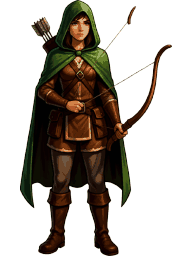
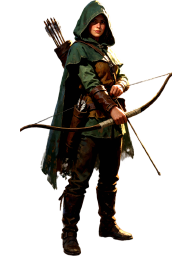
world2 v9.57.0: 캐릭터 그림을 KREA2 체인 + BiRefNet-HR 로
tools/make_character_sheet.py 추가 — ComfyUI 워크플로우를 API 형식으로 옮겨
얼굴·상반신·전신 세 장을 한 번에 뽑는다. 얼굴=카드, 상반신=인스펙터,
전신=전투. 사람과 크리처 모두 이 스크립트만 쓴다. 궁수를 먼저 뽑았다.

diff --git a/game-card-world2/tools/make_character_sheet.py b/game-card-world2/tools/make_character_sheet.py
@@ -1,0 +1,258 @@
+"""캐릭터 시트 생성 — KREA2 체인 + BiRefNet-HR 배경제거 (2026-10-06)
+
+ComfyUI 워크플로우 `KREA2 체인 + BiRefNet-HR 배경제거.json` 을 그대로 API 형식으로 옮긴 것.
+**사람과 크리처는 이제 전부 이 스크립트로 뽑는다** (make_icon_character.py 는 쓰지 않는다).
+
+한 번 돌리면 세 장이 나오고, 셋 다 게임의 제 자리로 들어간다.
+  얼굴   → images/icon/card_<id>.png        64x64 · 32색   (카드)
+  상반신 → images/portrait/bust_<id>.png    192x256        (인스펙터)
+  전신   → images/portrait/portrait_<id>.png 192x256       (전투 · 줄 토큰)
+
+체인 (모델은 KREA 2 Turbo 하나만 올린다 — 3단 전부 같은 UNet/CLIP/VAE 를 쓴다):
+  1단  전신 720x1280 을 글에서 생성 (8스텝 · cfg 1 · er_sde)
+  2단  전신에서 **얼굴을 찾아** 그 자리를 기준으로 넓게 잘라 720x1024 → 다시 샘플링 (denoise 0.12)
+  3단  상반신에서 다시 얼굴을 찾아 바짝 잘라 1024x1024 → 다시 샘플링 (denoise 0.05)
+  세 장 모두 색보정(밝기·대비·채도) 뒤 BiRefNet General-HR 로 배경을 지워 투명 PNG 로 받는다.
+  크롭은 좌표가 아니라 **얼굴 검출 결과**를 기준으로 잡으므로 자세가 바뀌어도 그대로 쓴다.
+
+쓰기:
+  python tools/make_character_sheet.py --name archer --label 궁수 --kind person \
+      --desc "a young human archer, short brown hair, green hood, wooden bow"
+  python tools/make_character_sheet.py --name wolf --label 늑대 --kind creature \
+      --desc "a grey timber wolf, thick fur, yellow eyes"
+
+크리처는 `--kind creature` 를 꼭 준다 — 사람·인간형이 끼지 않게 프롬프트에 못을 박고,
+전신은 **왼쪽을 보게** 그린다 (원정이 왼→오른쪽이라 기다리는 쪽이 왼쪽을 본다).
+"""
+import argparse
+import random
+import re
+import sys
+from io import BytesIO
+from pathlib import Path
+
+from PIL import Image
+
+import icon_common as C
+
+ROOT = Path(__file__).resolve().parent.parent
+ICON_DIR = ROOT / "images" / "icon"
+PORTRAIT_DIR = ROOT / "images" / "portrait"
+
+# ── 그림체 — 워크플로우 기본 톤 그대로 (2026-10-06 사용자 확정) ──────────────
+STYLE = (
+    "AAA western video-game key art, semi-realistic digital oil painting with visible painterly "
+    "brushwork and textured impasto, cinematic rim lighting, muted desaturated palette with warm "
+    "highlights, concept-art rendering, sharp focus"
+)
+NOT_ANIME = (
+    "NOT anime, NOT manga, NOT cel-shaded, no flat colors, no black outlines, no lineart, "
+    "no chibi, no big glossy eyes, no text, no watermark"
+)
+# 배경 — 잘라내기 좋게 민짜가 기본. --bg scene 이면 워크플로우 예시처럼 배경을 그린다
+BG_PLAIN = "plain flat neutral grey studio backdrop, no scenery, no props, no other characters"
+
+# 사람 — 카드 얼굴은 정면 (크리처와 달리 좌우를 뒤집어 쓰지 않는다)
+PERSON = {
+    "full": ("Full-body character splash art of {desc}, standing in a relaxed ready stance, "
+             "facing the viewer, body turned three-quarters, whole body visible from head to toe, "
+             "realistic human proportions and anatomy, centered composition"),
+    "upper": ("Upper-body character portrait of {desc}, facing the viewer, shoulders squared, "
+              "torso turned three-quarters, realistic anatomy and skin texture"),
+    "face": ("Close-up face portrait of {desc}, facing the viewer, realistic facial anatomy, "
+             "detailed skin texture"),
+}
+# 크리처 — 사람·인간형이 끼지 않게 단계마다 못을 박는다. 전신은 **왼쪽**을 본다
+NO_HUMAN = ("an animal only: no human, no person, no humanoid, no anthropomorphic figure, "
+            "no hands, no clothing, no armor, no weapon, no rider, true natural animal anatomy "
+            "and proportions for the species")
+CREATURE = {
+    "full": ("Full-body creature art of {desc} — " + NO_HUMAN + ". Standing in a natural stance, "
+             "side view facing to the left, whole body visible from head to feet, "
+             "centered composition"),
+    "upper": ("Head and shoulders creature portrait of {desc} — " + NO_HUMAN + ". "
+              "Facing to the left, front half of the body visible"),
+    "face": ("Close-up head portrait of the animal: {desc} — " + NO_HUMAN + ". "
+             "Facing the viewer, detailed fur and skin texture"),
+}
+KINDS = {"person": PERSON, "creature": CREATURE}
+
+NAME_RE = re.compile(r"[a-z0-9]+(?:-[a-z0-9]+)*")
+# 나오는 파일 — (단계, 저장 경로, 크기, 팔레트 색 수, 세로 정렬)
+OUTS = {
+    "face":  ("card_{n}.png",     ICON_DIR,     (64, 64),    32,   "center"),
+    "upper": ("bust_{n}.png",     PORTRAIT_DIR, (192, 256),  None, "bottom"),
+    "full":  ("portrait_{n}.png", PORTRAIT_DIR, (192, 256),  None, "bottom"),
+}
+
+
+def prompt_of(kind, stage, desc, bg):
+    """단계별 프롬프트 = 틀 + 설명 + 그림체 + 배경 + 금지"""
+    head = KINDS[kind][stage].format(desc=desc.rstrip(" ,."))
+    tail = STYLE + ", " + (bg if bg else BG_PLAIN)
+    return f"{head}. {tail}. {NOT_ANIME}."
+
+
+def build(a, texts):
+    """워크플로우를 API 형식으로. 노드 이름은 원본 워크플로우의 역할 그대로"""
+    sub = f"krea2_chain/{a.name}"
+    g = {
+        # ── 모델 한 벌 (3단 공용) ──
+        "unet": {"class_type": "UNETLoader",
+                 "inputs": {"unet_name": "krea2_turbo_fp8_scaled.safetensors", "weight_dtype": "default"}},
+        "clip": {"class_type": "CLIPLoader",
+                 "inputs": {"clip_name": "qwen3vl_4b_fp8_scaled.safetensors", "type": "krea2", "device": "default"}},
+        "vae": {"class_type": "VAELoader", "inputs": {"vae_name": "qwen_image_vae.safetensors"}},
+        "neg": {"class_type": "CLIPTextEncode", "inputs": {"clip": ["clip", 0], "text": ""}},   # cfg 1 이라 빈 칸
+        "birefnet": {"class_type": "AutoDownloadBiRefNetModel",
+                     "inputs": {"model_name": "General-HR", "device": "AUTO", "dtype": "float32"}},
+        "clipseg": {"class_type": "DownloadAndLoadCLIPSeg",
+                    "inputs": {"model": "Kijai/clipseg-rd64-refined-fp16"}},
+        # ── 1단 전신 ──
+        "pos_full": {"class_type": "CLIPTextEncode", "inputs": {"clip": ["clip", 0], "text": texts["full"]}},
+        "latent": {"class_type": "EmptyLatentImage", "inputs": {"width": a.width, "height": a.height, "batch_size": 1}},
+        "ks_full": {"class_type": "KSampler", "inputs": {
+            "model": ["unet", 0], "positive": ["pos_full", 0], "negative": ["neg", 0], "latent_image": ["latent", 0],
+            "seed": a.seed, "steps": a.steps, "cfg": 1, "sampler_name": "er_sde", "scheduler": "simple", "denoise": 1}},
+        "dec_full": {"class_type": "VAEDecode", "inputs": {"samples": ["ks_full", 0], "vae": ["vae", 0]}},
+        # ── 2단 상반신 — 전신에서 얼굴을 찾아 그 자리 기준으로 넓게 자른다 ──
+        "seg_full": {"class_type": "BatchCLIPSeg", "inputs": {
+            "images": ["dec_full", 0], "text": a.seg_text, "threshold": 0.5, "binary_mask": True,
+            "combine_mask": False, "use_cuda": True, "blur_sigma": 0, "image_bg_level": 0.5,
+            "invert": False, "opt_model": ["clipseg", 0]}},
+        "mask_upper": {"class_type": "MaskComposite", "inputs": {                 # 찾은 자리를 아래로 늘려 몸을 담는다
+            "destination": ["seg_full", 0], "source": ["seg_full", 0], "x": 0, "y": a.upper_down, "operation": "add"}},
+        "crop_upper": {"class_type": "ImageCropByMaskAndResize", "inputs": {
+            "image": ["dec_full", 0], "mask": ["mask_upper", 0], "base_resolution": 768,
+            "padding": a.upper_pad, "min_crop_resolution": 128, "max_crop_resolution": 2048}},
+        "rs_upper": {"class_type": "ImageResizeKJv2", "inputs": {
+            "image": ["crop_upper", 0], "width": 720, "height": 1024, "upscale_method": "lanczos",
+            "keep_proportion": "crop", "pad_color": "0, 0, 0", "crop_position": "center",
+            "divisible_by": 16, "device": "cpu"}},
+        "pos_upper": {"class_type": "CLIPTextEncode", "inputs": {"clip": ["clip", 0], "text": texts["upper"]}},
+        "enc_upper": {"class_type": "VAEEncode", "inputs": {"pixels": ["rs_upper", 0], "vae": ["vae", 0]}},
+        "ks_upper": {"class_type": "KSampler", "inputs": {
+            "model": ["unet", 0], "positive": ["pos_upper", 0], "negative": ["neg", 0], "latent_image": ["enc_upper", 0],
+            "seed": 0, "steps": a.steps, "cfg": 1, "sampler_name": "er_sde", "scheduler": "simple",
+            "denoise": a.denoise_upper}},
+        "dec_upper": {"class_type": "VAEDecode", "inputs": {"samples": ["ks_upper", 0], "vae": ["vae", 0]}},
+        # ── 3단 얼굴 — 상반신에서 다시 얼굴을 찾아 바짝 자른다 ──
+        "seg_upper": {"class_type": "BatchCLIPSeg", "inputs": {
+            "images": ["dec_upper", 0], "text": a.seg_text, "threshold": 0.5, "binary_mask": True,
+            "combine_mask": False, "use_cuda": True, "blur_sigma": 0, "image_bg_level": 0.5,
+            "invert": False, "opt_model": ["clipseg", 0]}},
+        "mask_face": {"class_type": "MaskComposite", "inputs": {
+            "destination": ["seg_upper", 0], "source": ["seg_upper", 0], "x": 0, "y": a.face_down, "operation": "add"}},
+        "crop_face": {"class_type": "ImageCropByMaskAndResize", "inputs": {
+            "image": ["dec_upper", 0], "mask": ["mask_face", 0], "base_resolution": 1024,
+            "padding": a.face_pad, "min_crop_resolution": 128, "max_crop_resolution": 2048}},
+        "rs_face": {"class_type": "ImageResizeKJv2", "inputs": {
+            "image": ["crop_face", 0], "width": 1024, "height": 1024, "upscale_method": "lanczos",
+            "keep_proportion": "crop", "pad_color": "0, 0, 0", "crop_position": "center",
+            "divisible_by": 16, "device": "cpu"}},
+        "pos_face": {"class_type": "CLIPTextEncode", "inputs": {"clip": ["clip", 0], "text": texts["face"]}},
+        "enc_face": {"class_type": "VAEEncode", "inputs": {"pixels": ["rs_face", 0], "vae": ["vae", 0]}},
+        "ks_face": {"class_type": "KSampler", "inputs": {
+            "model": ["unet", 0], "positive": ["pos_face", 0], "negative": ["neg", 0], "latent_image": ["enc_face", 0],
+            "seed": 0, "steps": a.steps, "cfg": 1, "sampler_name": "er_sde", "scheduler": "simple",
+            "denoise": a.denoise_face}},
+        "dec_face": {"class_type": "VAEDecode", "inputs": {"samples": ["ks_face", 0], "vae": ["vae", 0]}},
+    }
+    # ── 색보정은 **저장 쪽 가지에만** 건다 (다음 단계의 크롭 입력은 원본 그대로) ──
+    for stage, dec in (("full", "dec_full"), ("upper", "dec_upper"), ("face", "dec_face")):
+        g[f"cc_{stage}"] = {"class_type": "LayerColor: BrightnessContrastV2", "inputs": {
+            "image": [dec, 0], "brightness": a.brightness, "contrast": a.contrast, "saturation": a.saturation}}
+        g[f"rgba_{stage}"] = {"class_type": "RembgByBiRefNet",
+                              "inputs": {"model": ["birefnet", 0], "images": [f"cc_{stage}", 0]}}
+        g[f"save_{stage}"] = {"class_type": "SaveImage", "inputs": {
+            "images": [f"cc_{stage}", 0], "filename_prefix": f"{sub}_{stage}"}}
+        g[f"save_rgba_{stage}"] = {"class_type": "SaveImage", "inputs": {
+            "images": [f"rgba_{stage}", 0], "filename_prefix": f"{sub}_{stage}_rgba"}}
+    return g
+
+
+def fit(im, size, colors, valign):
+    """투명 여백을 잘라내고 제 크기로 줄여 투명 바탕에 올림 (세로 정렬 선택)"""
+    im = im.convert("RGBA")
+    box = im.getchannel("A").point(lambda v: 255 if v > 8 else 0).getbbox()
+    if box:
+        im = im.crop(box)
+    w, h = size
+    s = min(w / im.width, h / im.height)
+    nw, nh = max(1, round(im.width * s)), max(1, round(im.height * s))
+    im = im.resize((nw, nh), Image.LANCZOS if s > 0.5 else Image.BOX)
+    out = Image.new("RGBA", size, (0, 0, 0, 0))
+    out.paste(im, ((w - nw) // 2, h - nh if valign == "bottom" else (h - nh) // 2))
+    if colors:                                                   # 카드 아이콘만 팔레트를 줄인다 (기존 규격)
+        rgb, alpha = out.convert("RGB"), out.getchannel("A")
+        rgb = rgb.quantize(colors=colors, dither=Image.Dither.NONE).convert("RGB")
+        out = Image.merge("RGBA", (*rgb.split(), alpha))
+    return out
+
+
+def main():
+    ap = argparse.ArgumentParser(description="KREA2 체인 + BiRefNet-HR — 캐릭터 얼굴·상반신·전신 한 벌")
+    ap.add_argument("--name", required=True, help="id (영문 소문자·숫자·-). 예: archer → card_archer · bust_archer · portrait_archer")
+    ap.add_argument("--kind", choices=sorted(KINDS), required=True, help="person: 사람 / creature: 크리처 (사람이 안 끼게 못을 박음)")
+    ap.add_argument("--desc", required=True, help="영문 묘사 — 세 단계가 같은 묘사를 쓴다 (머리색·옷·종 따위)")
+    ap.add_argument("--label", default="", help="기록용 한글 이름 (예: 궁수)")
+    ap.add_argument("--bg", default="", help="배경 묘사. 비우면 잘라내기 좋은 민짜 배경")
+    ap.add_argument("--seed", type=int, default=None, help="1단 시드 (없으면 랜덤). 구도가 맘에 안 들면 이것만 바꾼다")
+    ap.add_argument("--steps", type=int, default=8)
+    ap.add_argument("--width", type=int, default=720)
+    ap.add_argument("--height", type=int, default=1280)
+    ap.add_argument("--denoise-upper", type=float, default=0.12, help="2단 리파인 세기 (크면 또렷하나 얼굴이 달라짐)")
+    ap.add_argument("--denoise-face", type=float, default=0.05, help="3단 리파인 세기")
+    ap.add_argument("--upper-pad", type=int, default=85, help="상반신 크롭량 — 키우면 더 넓게 담김")
+    ap.add_argument("--upper-down", type=int, default=170, help="상반신 세로 연장량 — 키우면 얼굴이 위로 가고 몸이 더 담김")
+    ap.add_argument("--face-pad", type=int, default=60, help="얼굴 크롭량 — 줄이면 얼굴에 바짝 붙음")
+    ap.add_argument("--face-down", type=int, default=10, help="얼굴 세로 연장량")
+    ap.add_argument("--brightness", type=float, default=1.2)
+    ap.add_argument("--contrast", type=float, default=1.5)
+    ap.add_argument("--saturation", type=float, default=1.1)
+    ap.add_argument("--seg-text", default="face", help="CLIPSeg 로 찾을 것 (크리처는 head 가 나을 수 있음)")
+    ap.add_argument("--only", default="", help="일부만 저장 — face,upper,full 중 쉼표로 (그림은 체인이라 어차피 다 돌린다)")
+    ap.add_argument("--force", action="store_true", help="같은 파일이 있으면 덮어씀")
+    ap.add_argument("--url", default="http://127.0.0.1:8188")
+    a = ap.parse_args()
+
+    if not NAME_RE.fullmatch(a.name):
+        sys.exit(f"bad name: {a.name!r} (영문 소문자·숫자·-)")
+    want = [s.strip() for s in a.only.split(",") if s.strip()] or list(OUTS)
+    bad = [s for s in want if s not in OUTS]
+    if bad:
+        sys.exit(f"--only 는 {', '.join(OUTS)} 중에서: {bad}")
+    dests = {s: OUTS[s][1] / OUTS[s][0].format(n=a.name) for s in want}
+    exists = [p for p in dests.values() if p.exists()]
+    if exists and not a.force:
+        sys.exit("exists: " + ", ".join(str(p) for p in exists) + " (--force 로 덮어쓰기)")
+    if a.seed is None:
+        a.seed = random.randrange(2 ** 31)
+
+    texts = {s: prompt_of(a.kind, s, a.desc, a.bg) for s in ("full", "upper", "face")}
+    for s in ("full", "upper", "face"):
+        print(f"\n[{s}] {texts[s]}")
+    print(f"\nseed {a.seed} · {a.kind} · {a.width}x{a.height}")
+    outs = C.run_workflow(a.url, build(a, texts), timeout=1800)
+
+    opts = [f"--kind {a.kind}", f"--denoise-upper {a.denoise_upper}", f"--denoise-face {a.denoise_face}",
+            f"--upper-pad {a.upper_pad}", f"--upper-down {a.upper_down}",
+            f"--face-pad {a.face_pad}", f"--face-down {a.face_down}"]
+    for s in want:
+        node = f"save_rgba_{s}"
+        imgs = outs.get(node, {}).get("images") or []
+        if not imgs:
+            sys.exit(f"no output: {node}")
+        raw = Image.open(BytesIO(C.fetch_image(a.url, imgs[0])))
+        fname, folder, size, colors, valign = OUTS[s]
+        dest = folder / fname.format(n=a.name)
+        fit(raw, size, colors, valign).save(dest)
+        rel = dest.relative_to(ROOT).as_posix()
+        print(f"saved {rel}  ({raw.size[0]}x{raw.size[1]} → {size[0]}x{size[1]})")
+        C.record(dest.stem, f"{a.label} — {s}" if a.label else "", texts["face" if s == "face" else s],
+                 a.seed, opts, file=f"{rel}")
+    print("\n원본 큰 그림: ComfyUI/output/krea2_chain/")
+
+
+if __name__ == "__main__":
+    main()

diff --git a/game-card-world2/docs/아이콘_목록.md b/game-card-world2/docs/아이콘_목록.md
@@ -1843,11 +1843,11 @@ a single huge grey granite boulder with sharp cracked facets
 <!-- /icon -->
 
 <!-- icon:portrait_archer -->
-### portrait_archer — 궁수
+### portrait_archer — 궁수 — full
 - 파일: `images/portrait/portrait_archer.png`
-- 생성: 2026-10-02 · seed `140469717751903` · 옵션 `--kind character`
+- 생성: 2026-10-06 · seed `140469717` · 옵션 `--kind person --denoise-upper 0.12 --denoise-face 0.05 --upper-pad 85 --upper-down 170 --face-pad 60 --face-down 10`
 ```
-full body standing pose of a young woman archer in a green hooded cloak and brown leather tunic, a quiver of arrows on her back, holding a simple wooden bow, confident stance, forest ranger look
+Full-body character splash art of a young woman archer in a green hooded cloak and brown leather tunic, a quiver of arrows on her back, holding a simple wooden bow, forest ranger look, confident calm expression, standing in a relaxed ready stance, facing the viewer, body turned three-quarters, whole body visible from head to toe, realistic human proportions and anatomy, centered composition. AAA western video-game key art, semi-realistic digital oil painting with visible painterly brushwork and textured impasto, cinematic rim lighting, muted desaturated palette with warm highlights, concept-art rendering, sharp focus, plain flat neutral grey studio backdrop, no scenery, no props, no other characters. NOT anime, NOT manga, NOT cel-shaded, no flat colors, no black outlines, no lineart, no chibi, no big glossy eyes, no text, no watermark.
 ```
 <!-- /icon -->
 
@@ -1861,11 +1861,11 @@ a simple curved wooden longbow with a taut bowstring
 <!-- /icon -->
 
 <!-- icon:card_archer -->
-### card_archer — 궁수
+### card_archer — 궁수 — face
 - 파일: `images/icon/card_archer.png`
-- 생성: 2026-10-05 · seed `196647133200100` · 옵션 `(character) --frame person`
+- 생성: 2026-10-06 · seed `140469717` · 옵션 `--kind person --denoise-upper 0.12 --denoise-face 0.05 --upper-pad 85 --upper-down 170 --face-pad 170 --face-down 10`
 ```
-an archer in a green hood, freckles and sharp eyes, leather collar
+Close-up face portrait of a young woman archer in a green hooded cloak and brown leather tunic, a quiver of arrows on her back, holding a simple wooden bow, forest ranger look, confident calm expression, facing the viewer, realistic facial anatomy, detailed skin texture. AAA western video-game key art, semi-realistic digital oil painting with visible painterly brushwork and textured impasto, cinematic rim lighting, muted desaturated palette with warm highlights, concept-art rendering, sharp focus, plain flat neutral grey studio backdrop, no scenery, no props, no other characters. NOT anime, NOT manga, NOT cel-shaded, no flat colors, no black outlines, no lineart, no chibi, no big glossy eyes, no text, no watermark.
 ```
 <!-- /icon -->
 
@@ -2595,5 +2595,14 @@ full body standing pose of a camp cook in a soot-stained apron holding an iron s
 - 생성: 2026-10-05 · seed `245906213906262` · 옵션 `--kind character`
 ```
 full body standing pose of a carpenter with a hand saw in one hand and a plank under the other arm
+```
+<!-- /icon -->
+
+<!-- icon:bust_archer -->
+### bust_archer — 궁수 — upper
+- 파일: `images/portrait/bust_archer.png`
+- 생성: 2026-10-06 · seed `140469717` · 옵션 `--kind person --denoise-upper 0.12 --denoise-face 0.05 --upper-pad 85 --upper-down 170 --face-pad 60 --face-down 10`
+```
+Upper-body character portrait of a young woman archer in a green hooded cloak and brown leather tunic, a quiver of arrows on her back, holding a simple wooden bow, forest ranger look, confident calm expression, facing the viewer, shoulders squared, torso turned three-quarters, realistic anatomy and skin texture. AAA western video-game key art, semi-realistic digital oil painting with visible painterly brushwork and textured impasto, cinematic rim lighting, muted desaturated palette with warm highlights, concept-art rendering, sharp focus, plain flat neutral grey studio backdrop, no scenery, no props, no other characters. NOT anime, NOT manga, NOT cel-shaded, no flat colors, no black outlines, no lineart, no chibi, no big glossy eyes, no text, no watermark.
 ```
 <!-- /icon -->

diff --git a/game-card-world2/docs/기능.md b/game-card-world2/docs/기능.md
@@ -3928,6 +3928,15 @@
 - [x] v9.55.2: **여관 퀘스트** — 등록하면 기사의 수첩에 한 줄로 올라온다 (🏨 딱지 · 장인 그림 · 지금 걸음 한 줄 · n/3)
   - 소문이면 가야 할 땅, 물건이면 `무른 가죽 0/3 · 억센 가죽 0/2`, 증명이면 넘어야 할 놈을 적는다
   - 걸음이 하나 끝나면 목표 줄처럼 **새 줄로 번쩍이며** 올라온다. 장인을 아직 못 찾았으면 이름 자리는 ???
+- [x] v9.57.0: **캐릭터 그림을 KREA2 체인 + BiRefNet-HR 로 뽑는다** — 얼굴 · 상반신 · 전신 세 장 한 벌
+  - 새 `tools/make_character_sheet.py` — ComfyUI 워크플로우 `KREA2 체인 + BiRefNet-HR 배경제거.json` 을 API 형식으로 옮긴 것
+  - 체인: 전신 720×1280 생성 → **얼굴을 찾아** 넓게 잘라 720×1024 리파인(상반신) → 다시 얼굴을 찾아 1024×1024 리파인(얼굴). 모델은 KREA 2 Turbo 하나만 올린다
+  - 세 장 모두 색보정 뒤 BiRefNet General-HR 로 배경을 지우고, 받아서 제 규격으로 줄인다 (카드 64×64·32색, 나머지 192×256)
+  - 쓰임: **얼굴 = 카드 · 상반신 = 인스펙터 · 전신 = 전투** (사람 · 크리처 같은 규칙)
+  - 인스펙터가 `bust_<id>.png` 를 쓰도록 바꿈 — 아직 상반신이 없으면 전신으로 버틴다
+  - 궁수 먼저 뽑음 (`card_archer` · `bust_archer` · `portrait_archer`, seed 140469717, 얼굴은 `--face-pad 170` 으로 깃까지 담음)
+  - 그림체는 워크플로우 기본 톤으로 확정 (AAA western key art · semi-realistic oil painting)
+  - 크리처는 `--kind creature` 로 사람 · 인간형이 끼지 않게 못을 박음. 나머지 캐릭터 · 크리처는 아직 옛 그림 그대로다
 - [x] v9.56.8: 콜렉터북 **끼우기 연출을 중간에 멈출 수 있다** — 남은 카드는 다음 방문에 이어서
   - 전엔 끼우는 동안 `paused` 라서 `setTab` 이 아예 막혔다 — 카드가 열두 장이면 사 초를 꼼짝없이 봐야 했다
   - 이제 **다른 탭을 누르면 거기서 멈추고** 바로 나간다. 책을 한 번 두드려도 멈춘다

diff --git a/game-card-world2/docs/게임_규칙.md b/game-card-world2/docs/게임_규칙.md
@@ -571,3 +571,17 @@
   (`make_portrait.py --flip`, 또는 PNG 를 그대로 뒤집는다 — 다시 뽑으면 그림이 달라진다).
 
 2026-10-05 점검: 들개 · 늑대 두목 · 가재는 오른쪽을 보고 있어 뒤집었고, 여우는 **두 마리**가 그려져 있어 한 마리로 다시 뽑았다.
+
+## 확정 — 캐릭터 그림은 **세 장 한 벌** (2026-10-06)
+
+사람도 크리처도 같은 규칙을 쓴다. `tools/make_character_sheet.py` (KREA2 체인 + BiRefNet-HR) 가 한 번에 세 장을 뽑는다.
+
+| 단계 | 파일 | 쓰이는 곳 |
+|---|---|---|
+| 얼굴 | `card_<id>.png` (64×64 · 32색) | 카드 — 작은 네모에서 **누구인지**가 바로 읽혀야 하니 얼굴 |
+| 상반신 | `bust_<id>.png` (192×256) | 인스펙터 — 탭했을 때 보는 큰 그림 |
+| 전신 | `portrait_<id>.png` (192×256) | 전투 — 줄에 서서 걷고 싸우는 그림 |
+
+- 전엔 크리처는 전신 하나로 카드와 필드를 다 썼다. 이제 **크리처도 얼굴 카드를 가진다.**
+- 크리처 전신은 그대로 **왼쪽을 본다** (위 '크리처 전신 그림은 왼쪽을 본다').
+- 상반신이 아직 없는 사람 · 크리처는 인스펙터에서 **전신으로 버틴다** (`hBust()` 가 없으면 전신을 쓴다).
